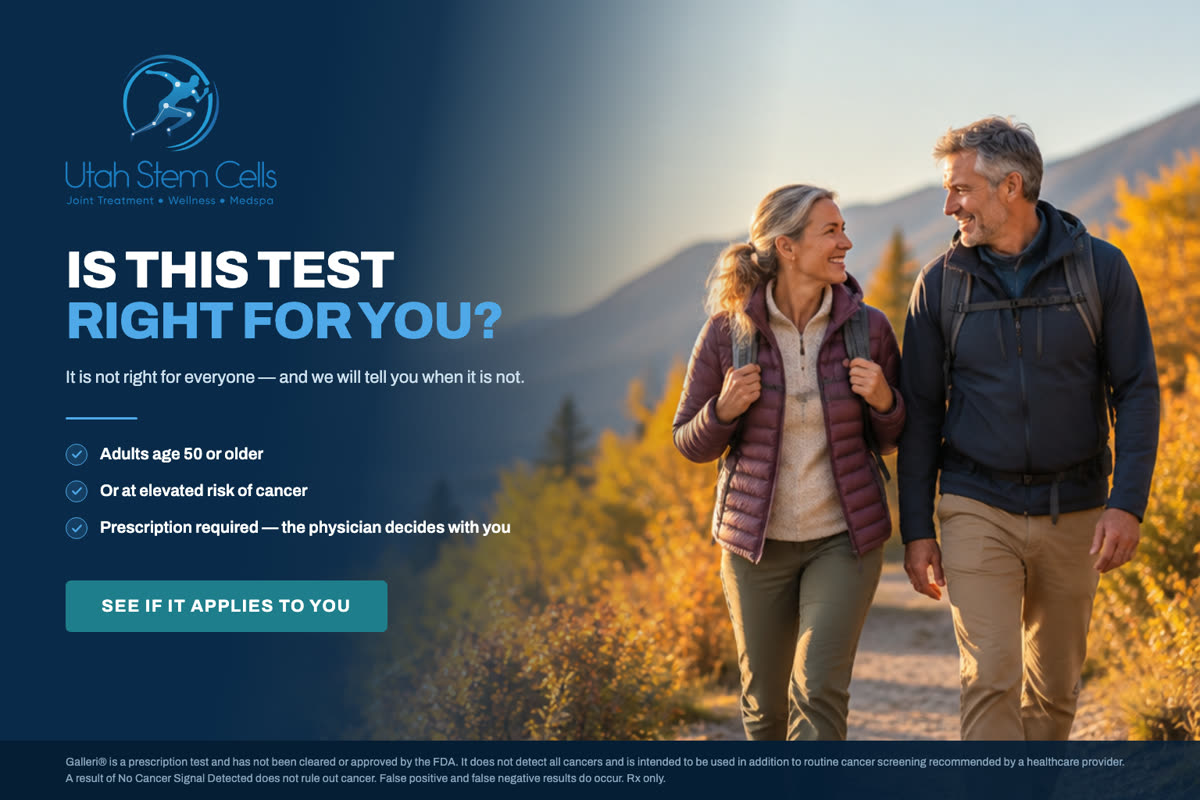
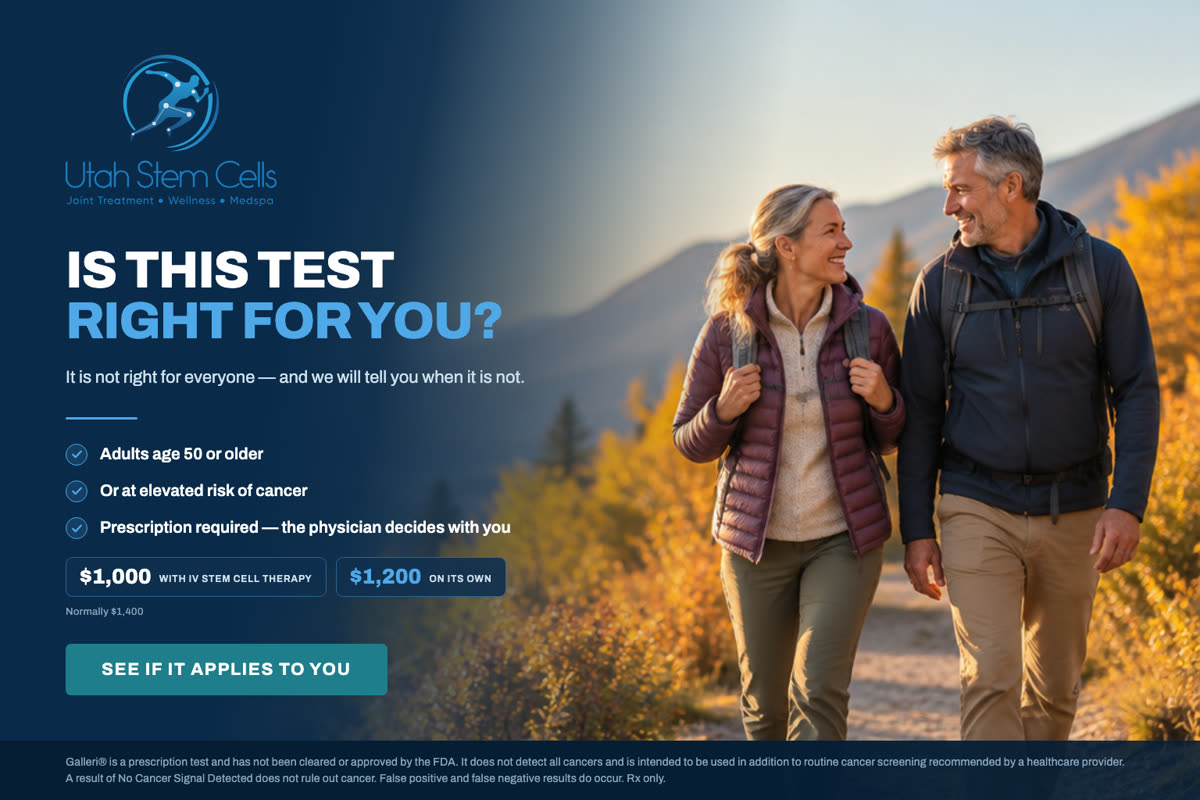
Galleri: offerta promozionale nelle quattro DEM rimaste
$1.000 con IV stem cell therapy, $1.200 da solo, listino $1.400. Riquadro
prezzi nelle email e striscia prezzi nelle creativita 03-06, con la
precisazione che il prezzo non incide sull'idoneita, decisa dal medico.

Changed region(s): [[0.0308, 0.6875, 0.4317, 0.875]]

diff --git a/newsletter/ott26/creative-06.html b/newsletter/ott26/creative-06.html
@@ -19,6 +19,12 @@ h1 .accent{color:var(--blue);display:block}
 .dot{flex:0 0 auto;width:28px;height:28px;border-radius:50%;background:rgba(79,168,232,.16);border:1.5px solid var(--blue);display:flex;align-items:center;justify-content:center;margin-top:1px}
 .dot svg{width:15px;height:15px}
 .cta{display:inline-block;margin-top:34px;background:var(--teal);color:#fff;font-size:22px;font-weight:700;letter-spacing:1.6px;text-transform:uppercase;padding:21px 46px;border-radius:7px;text-decoration:none}
+.prices{display:flex;align-items:center;gap:12px;margin-top:22px;max-width:650px;flex-wrap:wrap}
+.prices .chip{background:rgba(16,47,79,.9);border:1px solid rgba(79,168,232,.45);border-radius:9px;padding:11px 17px}
+.prices .chip .v{font-size:27px;font-weight:800;color:#fff;line-height:1}
+.prices .chip.alt .v{color:var(--blue)}
+.prices .chip .c{margin-top:5px;font-size:12px;letter-spacing:.9px;text-transform:uppercase;color:var(--ink)}
+.prices .was{font-size:13px;color:var(--dim);letter-spacing:.4px}
 .isi{position:absolute;left:0;right:0;bottom:0;padding:17px 84px;background:linear-gradient(to right,var(--navy-deep) 0%,var(--navy-deep) 62%,rgba(6,29,53,.88) 100%);font-size:14px;line-height:1.5;color:var(--dim);letter-spacing:.2px}
 /* coppia "in addition / never instead" */
 .pair{margin-top:6px}
@@ -55,9 +61,11 @@ h1 .accent{color:var(--blue);display:block}
 .doc img{width:86px;height:86px;border-radius:12px;object-fit:cover;object-position:50% 18%;border:2px solid rgba(79,168,232,.45)}
 .doc .d1{font-size:19px;font-weight:700;color:#fff}
 .doc .d2{font-size:16px;color:var(--ink);line-height:1.4;margin-top:3px}
-.logo{margin-bottom:30px}h1{font-size:58px}.steps li{margin-bottom:13px}
-     .steps .txt{font-size:18px}.num{width:32px;height:32px;font-size:16px}
-     .doc{margin-top:22px}.cta{margin-top:22px;padding:19px 42px}</style></head>
+.logo{margin-bottom:26px}h1{font-size:54px}.steps li{margin-bottom:10px}
+     .steps .txt{font-size:17px}.num{width:30px;height:30px;font-size:15px}
+     .rule{margin:20px 0 18px}.doc{margin-top:16px}.doc img{width:76px;height:76px}
+     .prices{margin-top:14px}.prices .chip{padding:9px 15px}.prices .chip .v{font-size:24px}
+     .cta{margin-top:16px;padding:16px 36px}</style></head>
 <body>
 
   <img class="sphoto" src="assets/clinic-reception.jpg">
@@ -76,6 +84,11 @@ h1 .accent{color:var(--blue);display:block}
       <img src="assets/dr-cimikoski.jpg">
       <div><div class="d1">Dr. William Cimikoski</div>
       <div class="d2">Medical Director. Oversees this process personally.</div></div>
+    </div>
+    <div class="prices">
+      <div class="chip"><div class="v">$1,000</div><div class="c">With IV stem cell therapy</div></div>
+      <div class="chip alt"><div class="v">$1,200</div><div class="c">On its own</div></div>
+      <div class="was">Normally $1,400</div>
     </div>
     <a class="cta" href="#">See how the test works here</a>
   </div>

diff --git a/newsletter/ott26/creative-04.html b/newsletter/ott26/creative-04.html
@@ -19,6 +19,12 @@ h1 .accent{color:var(--blue);display:block}
 .dot{flex:0 0 auto;width:28px;height:28px;border-radius:50%;background:rgba(79,168,232,.16);border:1.5px solid var(--blue);display:flex;align-items:center;justify-content:center;margin-top:1px}
 .dot svg{width:15px;height:15px}
 .cta{display:inline-block;margin-top:34px;background:var(--teal);color:#fff;font-size:22px;font-weight:700;letter-spacing:1.6px;text-transform:uppercase;padding:21px 46px;border-radius:7px;text-decoration:none}
+.prices{display:flex;align-items:center;gap:12px;margin-top:22px;max-width:650px;flex-wrap:wrap}
+.prices .chip{background:rgba(16,47,79,.9);border:1px solid rgba(79,168,232,.45);border-radius:9px;padding:11px 17px}
+.prices .chip .v{font-size:27px;font-weight:800;color:#fff;line-height:1}
+.prices .chip.alt .v{color:var(--blue)}
+.prices .chip .c{margin-top:5px;font-size:12px;letter-spacing:.9px;text-transform:uppercase;color:var(--ink)}
+.prices .was{font-size:13px;color:var(--dim);letter-spacing:.4px}
 .isi{position:absolute;left:0;right:0;bottom:0;padding:17px 84px;background:linear-gradient(to right,var(--navy-deep) 0%,var(--navy-deep) 62%,rgba(6,29,53,.88) 100%);font-size:14px;line-height:1.5;color:var(--dim);letter-spacing:.2px}
 /* coppia "in addition / never instead" */
 .pair{margin-top:6px}
@@ -55,7 +61,10 @@ h1 .accent{color:var(--blue);display:block}
 .doc img{width:86px;height:86px;border-radius:12px;object-fit:cover;object-position:50% 18%;border:2px solid rgba(79,168,232,.45)}
 .doc .d1{font-size:19px;font-weight:700;color:#fff}
 .doc .d2{font-size:16px;color:var(--ink);line-height:1.4;margin-top:3px}
-</style></head>
+.logo{margin-bottom:32px}h1{font-size:58px}.sub{margin-top:17px}.rule{margin:22px 0 18px}
+      .card{padding:14px 20px}.card .b{font-size:17px}.cards{gap:11px}
+      .prices{margin-top:16px}.prices .chip{padding:9px 15px}.prices .chip .v{font-size:24px}
+      .cta{margin-top:18px;padding:17px 38px}</style></head>
 <body>
 
   <img class="photo" src="creative-src/04-bg.png" style="object-position:76% 45%">
@@ -70,6 +79,11 @@ h1 .accent{color:var(--blue);display:block}
         <div class="b">Does not rule out cancer. Your routine screening matters exactly as much as before.</div></div>
       <div class="card"><div class="t">Cancer signal detected</div>
         <div class="b">Not a diagnosis. Requires confirmatory evaluation by established procedures, such as imaging.</div></div>
+    </div>
+    <div class="prices">
+      <div class="chip"><div class="v">$1,000</div><div class="c">With IV stem cell therapy</div></div>
+      <div class="chip alt"><div class="v">$1,200</div><div class="c">On its own</div></div>
+      <div class="was">Normally $1,400</div>
     </div>
     <a class="cta" href="#">See what each result means</a>
   </div>

diff --git a/newsletter/ott26/creative-05.html b/newsletter/ott26/creative-05.html
@@ -19,6 +19,12 @@ h1 .accent{color:var(--blue);display:block}
 .dot{flex:0 0 auto;width:28px;height:28px;border-radius:50%;background:rgba(79,168,232,.16);border:1.5px solid var(--blue);display:flex;align-items:center;justify-content:center;margin-top:1px}
 .dot svg{width:15px;height:15px}
 .cta{display:inline-block;margin-top:34px;background:var(--teal);color:#fff;font-size:22px;font-weight:700;letter-spacing:1.6px;text-transform:uppercase;padding:21px 46px;border-radius:7px;text-decoration:none}
+.prices{display:flex;align-items:center;gap:12px;margin-top:22px;max-width:650px;flex-wrap:wrap}
+.prices .chip{background:rgba(16,47,79,.9);border:1px solid rgba(79,168,232,.45);border-radius:9px;padding:11px 17px}
+.prices .chip .v{font-size:27px;font-weight:800;color:#fff;line-height:1}
+.prices .chip.alt .v{color:var(--blue)}
+.prices .chip .c{margin-top:5px;font-size:12px;letter-spacing:.9px;text-transform:uppercase;color:var(--ink)}
+.prices .was{font-size:13px;color:var(--dim);letter-spacing:.4px}
 .isi{position:absolute;left:0;right:0;bottom:0;padding:17px 84px;background:linear-gradient(to right,var(--navy-deep) 0%,var(--navy-deep) 62%,rgba(6,29,53,.88) 100%);font-size:14px;line-height:1.5;color:var(--dim);letter-spacing:.2px}
 /* coppia "in addition / never instead" */
 .pair{margin-top:6px}
@@ -70,6 +76,11 @@ h1 .accent{color:var(--blue);display:block}
       <li><span class="dot"><svg viewBox="0 0 16 16" fill="none" stroke="#4fa8e8" stroke-width="2.6" stroke-linecap="round" stroke-linejoin="round"><path d="M2.5 8.5l3.5 3.5 7.5-8"/></svg></span><span>Or at elevated risk of cancer</span></li>
       <li><span class="dot"><svg viewBox="0 0 16 16" fill="none" stroke="#4fa8e8" stroke-width="2.6" stroke-linecap="round" stroke-linejoin="round"><path d="M2.5 8.5l3.5 3.5 7.5-8"/></svg></span><span>Prescription required &mdash; the physician decides with you</span></li>
     </ul>
+    <div class="prices">
+      <div class="chip"><div class="v">$1,000</div><div class="c">With IV stem cell therapy</div></div>
+      <div class="chip alt"><div class="v">$1,200</div><div class="c">On its own</div></div>
+      <div class="was">Normally $1,400</div>
+    </div>
     <a class="cta" href="#">See if it applies to you</a>
   </div>
 <div class="isi">Galleri&reg; is a prescription test and has not been cleared or approved by the FDA. It does not detect all cancers and is intended to be used in addition to routine cancer screening recommended by a healthcare provider. A result of No Cancer Signal Detected does not rule out cancer. False positive and false negative results do occur. Rx only.</div>

diff --git a/newsletter/ott26/creative-01.html b/newsletter/ott26/creative-01.html
@@ -19,6 +19,12 @@ h1 .accent{color:var(--blue);display:block}
 .dot{flex:0 0 auto;width:28px;height:28px;border-radius:50%;background:rgba(79,168,232,.16);border:1.5px solid var(--blue);display:flex;align-items:center;justify-content:center;margin-top:1px}
 .dot svg{width:15px;height:15px}
 .cta{display:inline-block;margin-top:34px;background:var(--teal);color:#fff;font-size:22px;font-weight:700;letter-spacing:1.6px;text-transform:uppercase;padding:21px 46px;border-radius:7px;text-decoration:none}
+.prices{display:flex;align-items:center;gap:12px;margin-top:22px;max-width:650px;flex-wrap:wrap}
+.prices .chip{background:rgba(16,47,79,.9);border:1px solid rgba(79,168,232,.45);border-radius:9px;padding:11px 17px}
+.prices .chip .v{font-size:27px;font-weight:800;color:#fff;line-height:1}
+.prices .chip.alt .v{color:var(--blue)}
+.prices .chip .c{margin-top:5px;font-size:12px;letter-spacing:.9px;text-transform:uppercase;color:var(--ink)}
+.prices .was{font-size:13px;color:var(--dim);letter-spacing:.4px}
 .isi{position:absolute;left:0;right:0;bottom:0;padding:17px 84px;background:linear-gradient(to right,var(--navy-deep) 0%,var(--navy-deep) 62%,rgba(6,29,53,.88) 100%);font-size:14px;line-height:1.5;color:var(--dim);letter-spacing:.2px}
 /* coppia "in addition / never instead" */
 .pair{margin-top:6px}
@@ -69,6 +75,7 @@ h1 .accent{color:var(--blue);display:block}
       <li><span class="dot"><svg viewBox="0 0 16 16" fill="none" stroke="#4fa8e8" stroke-width="2.6" stroke-linecap="round" stroke-linejoin="round"><path d="M2.5 8.5l3.5 3.5 7.5-8"/></svg></span><span>In addition to your routine screening &mdash; never instead of it.</span></li>
       <li><span class="dot"><svg viewBox="0 0 16 16" fill="none" stroke="#4fa8e8" stroke-width="2.6" stroke-linecap="round" stroke-linejoin="round"><path d="M2.5 8.5l3.5 3.5 7.5-8"/></svg></span><span>A prescription test, ordered and reviewed by a physician.</span></li>
     </ul>
+    
     <a class="cta" href="#">Book a consultation</a>
   </div>
 <div class="isi">Galleri&reg; is a prescription test and has not been cleared or approved by the FDA. It does not detect all cancers and is intended to be used in addition to routine cancer screening recommended by a healthcare provider. A result of No Cancer Signal Detected does not rule out cancer. False positive and false negative results do occur. Rx only.</div>

diff --git a/newsletter/ott26/creative-03.html b/newsletter/ott26/creative-03.html
@@ -19,6 +19,12 @@ h1 .accent{color:var(--blue);display:block}
 .dot{flex:0 0 auto;width:28px;height:28px;border-radius:50%;background:rgba(79,168,232,.16);border:1.5px solid var(--blue);display:flex;align-items:center;justify-content:center;margin-top:1px}
 .dot svg{width:15px;height:15px}
 .cta{display:inline-block;margin-top:34px;background:var(--teal);color:#fff;font-size:22px;font-weight:700;letter-spacing:1.6px;text-transform:uppercase;padding:21px 46px;border-radius:7px;text-decoration:none}
+.prices{display:flex;align-items:center;gap:12px;margin-top:22px;max-width:650px;flex-wrap:wrap}
+.prices .chip{background:rgba(16,47,79,.9);border:1px solid rgba(79,168,232,.45);border-radius:9px;padding:11px 17px}
+.prices .chip .v{font-size:27px;font-weight:800;color:#fff;line-height:1}
+.prices .chip.alt .v{color:var(--blue)}
+.prices .chip .c{margin-top:5px;font-size:12px;letter-spacing:.9px;text-transform:uppercase;color:var(--ink)}
+.prices .was{font-size:13px;color:var(--dim);letter-spacing:.4px}
 .isi{position:absolute;left:0;right:0;bottom:0;padding:17px 84px;background:linear-gradient(to right,var(--navy-deep) 0%,var(--navy-deep) 62%,rgba(6,29,53,.88) 100%);font-size:14px;line-height:1.5;color:var(--dim);letter-spacing:.2px}
 /* coppia "in addition / never instead" */
 .pair{margin-top:6px}
@@ -62,6 +68,11 @@ h1 .accent{color:var(--blue);display:block}
     <img class="logo" src="logo.svg">
     <h1>The cancers<span class="accent">nobody<br>screens for.</span></h1>
     <p class="sub" style="max-width:540px;margin-top:30px;font-size:23px">Most cancers have no routine screening test at all. Galleri looks for a signal shared by more than 50 types &mdash; from a single blood sample.</p>
+    <div class="prices">
+      <div class="chip"><div class="v">$1,000</div><div class="c">With IV stem cell therapy</div></div>
+      <div class="chip alt"><div class="v">$1,200</div><div class="c">On its own</div></div>
+      <div class="was">Normally $1,400</div>
+    </div>
     <a class="cta" href="#">See what Galleri looks for</a>
   </div>
   <div class="viz" style="top:186px">

diff --git a/newsletter/ott26/creative-02.html b/newsletter/ott26/creative-02.html
@@ -19,6 +19,12 @@ h1 .accent{color:var(--blue);display:block}
 .dot{flex:0 0 auto;width:28px;height:28px;border-radius:50%;background:rgba(79,168,232,.16);border:1.5px solid var(--blue);display:flex;align-items:center;justify-content:center;margin-top:1px}
 .dot svg{width:15px;height:15px}
 .cta{display:inline-block;margin-top:34px;background:var(--teal);color:#fff;font-size:22px;font-weight:700;letter-spacing:1.6px;text-transform:uppercase;padding:21px 46px;border-radius:7px;text-decoration:none}
+.prices{display:flex;align-items:center;gap:12px;margin-top:22px;max-width:650px;flex-wrap:wrap}
+.prices .chip{background:rgba(16,47,79,.9);border:1px solid rgba(79,168,232,.45);border-radius:9px;padding:11px 17px}
+.prices .chip .v{font-size:27px;font-weight:800;color:#fff;line-height:1}
+.prices .chip.alt .v{color:var(--blue)}
+.prices .chip .c{margin-top:5px;font-size:12px;letter-spacing:.9px;text-transform:uppercase;color:var(--ink)}
+.prices .was{font-size:13px;color:var(--dim);letter-spacing:.4px}
 .isi{position:absolute;left:0;right:0;bottom:0;padding:17px 84px;background:linear-gradient(to right,var(--navy-deep) 0%,var(--navy-deep) 62%,rgba(6,29,53,.88) 100%);font-size:14px;line-height:1.5;color:var(--dim);letter-spacing:.2px}
 /* coppia "in addition / never instead" */
 .pair{margin-top:6px}
@@ -74,6 +80,7 @@ h1 .accent{color:var(--blue);display:block}
       <div class="pbox"><div class="t">Galleri</div>
         <div class="b">A signal shared by more than 50 types of cancer &mdash; including many with no screening test at all.</div></div>
     </div>
+    
     <a class="cta" href="#">See where each one fits</a>
   </div>
 <div class="isi">Galleri&reg; is a prescription test and has not been cleared or approved by the FDA. It does not detect all cancers and is intended to be used in addition to routine cancer screening recommended by a healthcare provider. A result of No Cancer Signal Detected does not rule out cancer. False positive and false negative results do occur. Rx only.</div>

diff --git a/newsletter/ott26/email/03-cancers-nobody-screens-for.html b/newsletter/ott26/email/03-cancers-nobody-screens-for.html
@@ -46,6 +46,17 @@
                   <p style="margin:0;font-size:15px;line-height:1.5;color:#333333;">It is not a replacement for the screening your provider already recommends, and a negative result does not rule out cancer.</p>
                 </td></tr>
               </table>
+        
+              <table role="presentation" width="100%" cellpadding="0" cellspacing="0" border="0" style="background-color:#eaf4fc;border:1px solid #d6e4f0;border-radius:8px;margin-top:14px;">
+                <tr><td style="padding:20px 24px;font-family:Arial,Helvetica,sans-serif;">
+                  <p style="margin:0 0 12px;font-size:13px;font-weight:bold;letter-spacing:1.2px;text-transform:uppercase;color:#0a2a4a;">What it costs</p>
+                  <p style="margin:0 0 3px;font-size:14px;color:#333333;">With IV stem cell therapy</p>
+                  <p style="margin:0 0 12px;font-size:28px;font-weight:bold;line-height:1;color:#0a2a4a;">$1,000</p>
+                  <p style="margin:0 0 3px;font-size:14px;color:#333333;">On its own</p>
+                  <p style="margin:0 0 12px;font-size:28px;font-weight:bold;line-height:1;color:#1479c9;">$1,200</p>
+                  <p style="margin:0;font-size:13px;line-height:1.5;color:#6b7c8c;">Normally $1,400. The price has no bearing on whether the test is appropriate for you &mdash; that is decided by the physician at an evaluation.</p>
+                </td></tr>
+              </table>
       </td></tr>
       <tr><td class="px btn" align="center" style="padding:30px 40px 10px;">
         

diff --git a/newsletter/ott26/email/04-what-your-result-means.html b/newsletter/ott26/email/04-what-your-result-means.html
@@ -46,6 +46,17 @@
                   <p style="margin:0;font-size:15px;line-height:1.5;color:#333333;">It is not a replacement for the screening your provider already recommends, and a negative result does not rule out cancer.</p>
                 </td></tr>
               </table>
+        
+              <table role="presentation" width="100%" cellpadding="0" cellspacing="0" border="0" style="background-color:#eaf4fc;border:1px solid #d6e4f0;border-radius:8px;margin-top:14px;">
+                <tr><td style="padding:20px 24px;font-family:Arial,Helvetica,sans-serif;">
+                  <p style="margin:0 0 12px;font-size:13px;font-weight:bold;letter-spacing:1.2px;text-transform:uppercase;color:#0a2a4a;">What it costs</p>
+                  <p style="margin:0 0 3px;font-size:14px;color:#333333;">With IV stem cell therapy</p>
+                  <p style="margin:0 0 12px;font-size:28px;font-weight:bold;line-height:1;color:#0a2a4a;">$1,000</p>
+                  <p style="margin:0 0 3px;font-size:14px;color:#333333;">On its own</p>
+                  <p style="margin:0 0 12px;font-size:28px;font-weight:bold;line-height:1;color:#1479c9;">$1,200</p>
+                  <p style="margin:0;font-size:13px;line-height:1.5;color:#6b7c8c;">Normally $1,400. The price has no bearing on whether the test is appropriate for you &mdash; that is decided by the physician at an evaluation.</p>
+                </td></tr>
+              </table>
       </td></tr>
       <tr><td class="px btn" align="center" style="padding:30px 40px 10px;">
         

diff --git a/newsletter/ott26/email/05-is-this-test-right-for-you.html b/newsletter/ott26/email/05-is-this-test-right-for-you.html
@@ -46,6 +46,17 @@
                   <p style="margin:0;font-size:15px;line-height:1.5;color:#333333;">It is not a replacement for the screening your provider already recommends, and a negative result does not rule out cancer.</p>
                 </td></tr>
               </table>
+        
+              <table role="presentation" width="100%" cellpadding="0" cellspacing="0" border="0" style="background-color:#eaf4fc;border:1px solid #d6e4f0;border-radius:8px;margin-top:14px;">
+                <tr><td style="padding:20px 24px;font-family:Arial,Helvetica,sans-serif;">
+                  <p style="margin:0 0 12px;font-size:13px;font-weight:bold;letter-spacing:1.2px;text-transform:uppercase;color:#0a2a4a;">What it costs</p>
+                  <p style="margin:0 0 3px;font-size:14px;color:#333333;">With IV stem cell therapy</p>
+                  <p style="margin:0 0 12px;font-size:28px;font-weight:bold;line-height:1;color:#0a2a4a;">$1,000</p>
+                  <p style="margin:0 0 3px;font-size:14px;color:#333333;">On its own</p>
+                  <p style="margin:0 0 12px;font-size:28px;font-weight:bold;line-height:1;color:#1479c9;">$1,200</p>
+                  <p style="margin:0;font-size:13px;line-height:1.5;color:#6b7c8c;">Normally $1,400. The price has no bearing on whether the test is appropriate for you &mdash; that is decided by the physician at an evaluation.</p>
+                </td></tr>
+              </table>
       </td></tr>
       <tr><td class="px btn" align="center" style="padding:30px 40px 10px;">
         

diff --git a/newsletter/ott26/email/06-how-it-works-here.html b/newsletter/ott26/email/06-how-it-works-here.html
@@ -48,6 +48,17 @@
                   <p style="margin:0;font-size:15px;line-height:1.5;color:#333333;">It is not a replacement for the screening your provider already recommends, and a negative result does not rule out cancer.</p>
                 </td></tr>
               </table>
+        
+              <table role="presentation" width="100%" cellpadding="0" cellspacing="0" border="0" style="background-color:#eaf4fc;border:1px solid #d6e4f0;border-radius:8px;margin-top:14px;">
+                <tr><td style="padding:20px 24px;font-family:Arial,Helvetica,sans-serif;">
+                  <p style="margin:0 0 12px;font-size:13px;font-weight:bold;letter-spacing:1.2px;text-transform:uppercase;color:#0a2a4a;">What it costs</p>
+                  <p style="margin:0 0 3px;font-size:14px;color:#333333;">With IV stem cell therapy</p>
+                  <p style="margin:0 0 12px;font-size:28px;font-weight:bold;line-height:1;color:#0a2a4a;">$1,000</p>
+                  <p style="margin:0 0 3px;font-size:14px;color:#333333;">On its own</p>
+                  <p style="margin:0 0 12px;font-size:28px;font-weight:bold;line-height:1;color:#1479c9;">$1,200</p>
+                  <p style="margin:0;font-size:13px;line-height:1.5;color:#6b7c8c;">Normally $1,400. The price has no bearing on whether the test is appropriate for you &mdash; that is decided by the physician at an evaluation.</p>
+                </td></tr>
+              </table>
       </td></tr>
       <tr><td class="px btn" align="center" style="padding:30px 40px 10px;">
         

diff --git a/newsletter/ott26/email/01-one-blood-draw.html b/newsletter/ott26/email/01-one-blood-draw.html
@@ -46,6 +46,7 @@
                   <p style="margin:0;font-size:15px;line-height:1.5;color:#333333;">It is not a replacement for the screening your provider already recommends, and a negative result does not rule out cancer.</p>
                 </td></tr>
               </table>
+        
       </td></tr>
       <tr><td class="px btn" align="center" style="padding:30px 40px 10px;">
         

diff --git a/newsletter/ott26/email/02-in-addition-never-instead.html b/newsletter/ott26/email/02-in-addition-never-instead.html
@@ -47,6 +47,7 @@
                   <p style="margin:0;font-size:15px;line-height:1.5;color:#333333;">It is not a replacement for the screening your provider already recommends, and a negative result does not rule out cancer.</p>
                 </td></tr>
               </table>
+        
       </td></tr>
       <tr><td class="px btn" align="center" style="padding:30px 40px 10px;">
         
